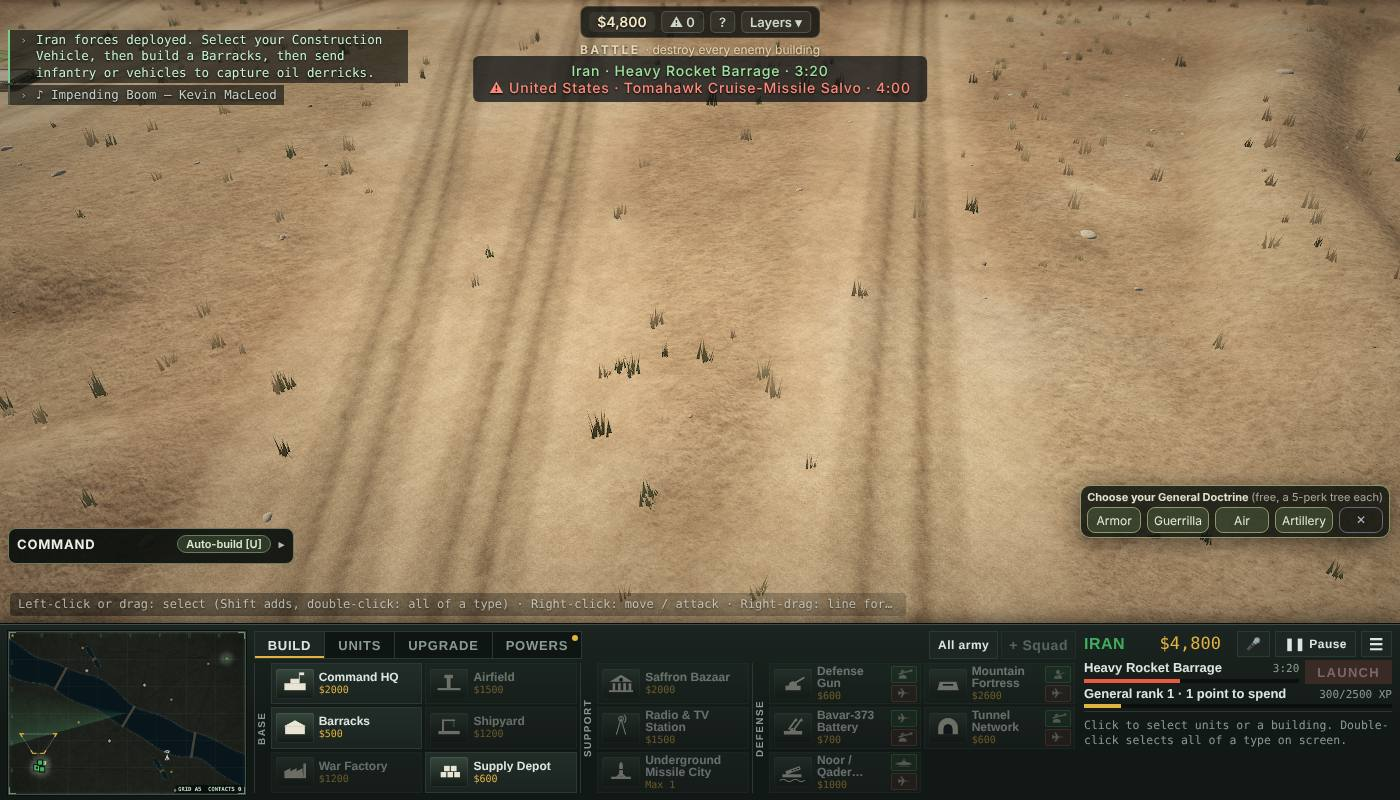
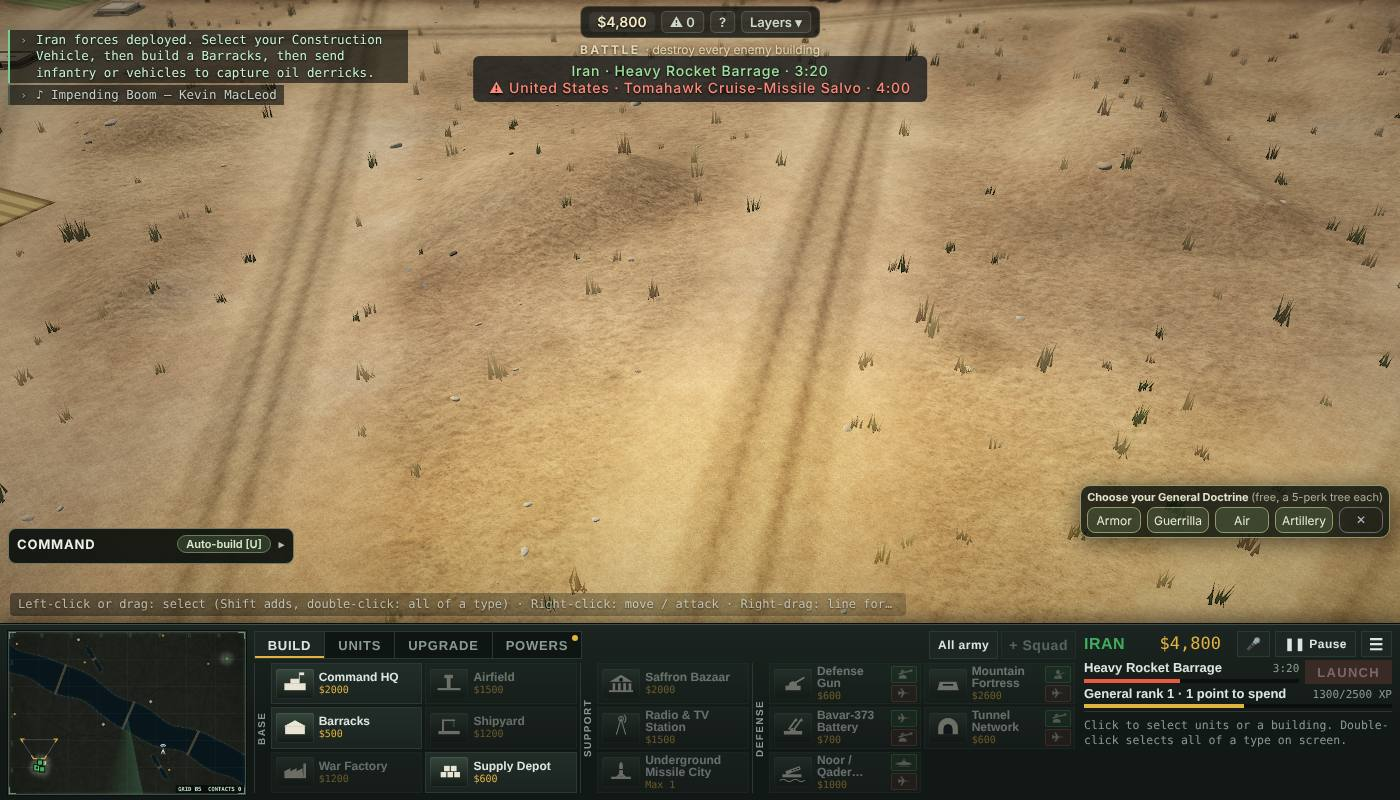
Handoff and screenshots for battlerules2
Claude-Session: https://claude.ai/code/session_01GRiS9ndnChRY7bSKpvGNkw

diff --git a/orch/HANDOFF-battlerules2.md b/orch/HANDOFF-battlerules2.md
@@ -1,0 +1,21 @@
+# HANDOFF battlerules2 (Brutal AI, Strike Center polish, fog memory, splash friendly fire)
+
+Status: code done and pushed to `orch/battlerules2` (not on main - the conductor lands it). Gate result: see the last section.
+
+## What a player gets (plain words)
+- **Strike Center (the one superweapon, same `uplink` building - no second system).** In Battle it costs $5000, needs an Airfield, one per nation, and takes 6 minutes to charge. When anyone's comes online everybody gets an alarm message with the timer, a banner at the top of the screen counts down every Strike Center in the match (red for enemies, green for you and allies), and a second alarm says READY. Each nation has a conventional strike name: cruise-missile salvo (US GB FR DE UA IN JP), ballistic strike (CN KP KR PK SA TR), carpet-bombing run (IL EG), Thermobaric Strike (RU), heavy rocket barrage (IR RS DW RV OB), precision salvo (AE). Salvo size, damage and radius stay each nation's old numbers. Nothing nuclear, chemical or biological exists (guard in `orch/decisions.mjs`).
+- A salvo can take at most 40% of any building (the Command Center survived with 60% in my test); enemy SAM sites still shoot some missiles down; the launch site shows on the enemy map for 45 s.
+- AI builds the Strike Center last, only on Hard and Brutal, and fires it when ready.
+- **Fog:** never-seen ground is black, seen-but-not-visible ground is grey and stays readable, ground in sight is clear (updateFog in src/06-view.js, view only, minimap follows).
+- **Friendly fire:** in Battle, explosions (shells, rockets, bombs, grenades, strikes, powers) hurt your own and allied units in the radius at 50%; buildings are spared; bullets never hit friendlies (test: own unit lost 52% of what the enemy beside it lost).
+- **Brutal AI:** 4th level (Easy/Medium/Hard/Brutal) in Battle setup (the Test range sits on that same setup panel), the online lobby and the server. It is Hard with sharper tactics only: thinks ~2x faster, earlier first attack, bigger waves, half the column flanks, more focus fire and supply-truck raids, damaged units fall back earlier. Same income as Hard, no extra vision (guard).
+
+## Files
+src/01-data.js (SW_* data, bstats), src/03-sim.js (swSup, swTick, launch, explode, DIFF[3], aiThink), src/06-view.js (updateFog, swBanner), src/07-net.js + 08-ui.js + 08b-identity.js (Brutal level), orch/decisions.mjs (guards), orch/br2check.mjs (browser check that made the screenshots), orch/shots/battlerules2-{banner,strike,fog}.jpg.
+
+## Not done / notes for ORCH
+- "Needs power": there is no power grid in the game, so the Strike Center needs only to be built, working (not hacked/disabled) and an Airfield.
+- No new strike sounds or visuals; it reuses the existing missile arc / air strike FX and the 'inbound' alarm log.
+- Friendly splash applies in Battle only (`G.battle`); missions/grand/conquest unchanged. If onegame makes everything Battle, nothing else to do.
+- The tourney equal-strength check (`orch/tourney.mjs`) was NOT run here (too slow in this sandbox); all nations keep their old salvo numbers and share one 360 s timer.
+- Smoke printed no PASS locally (loading screen took 235 s in the sandbox); trust the GitHub gate.
